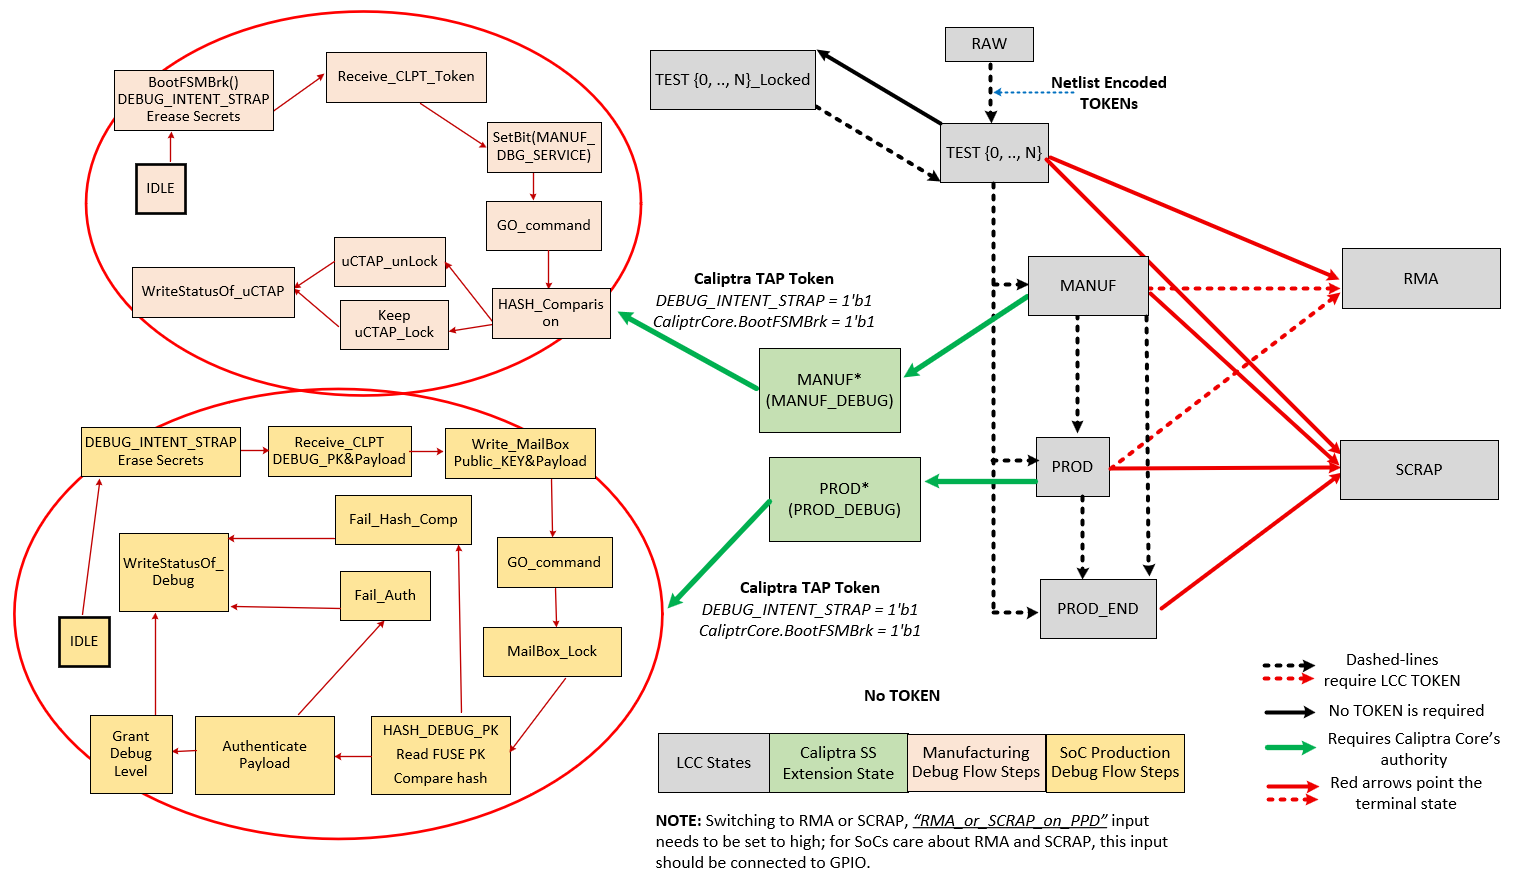
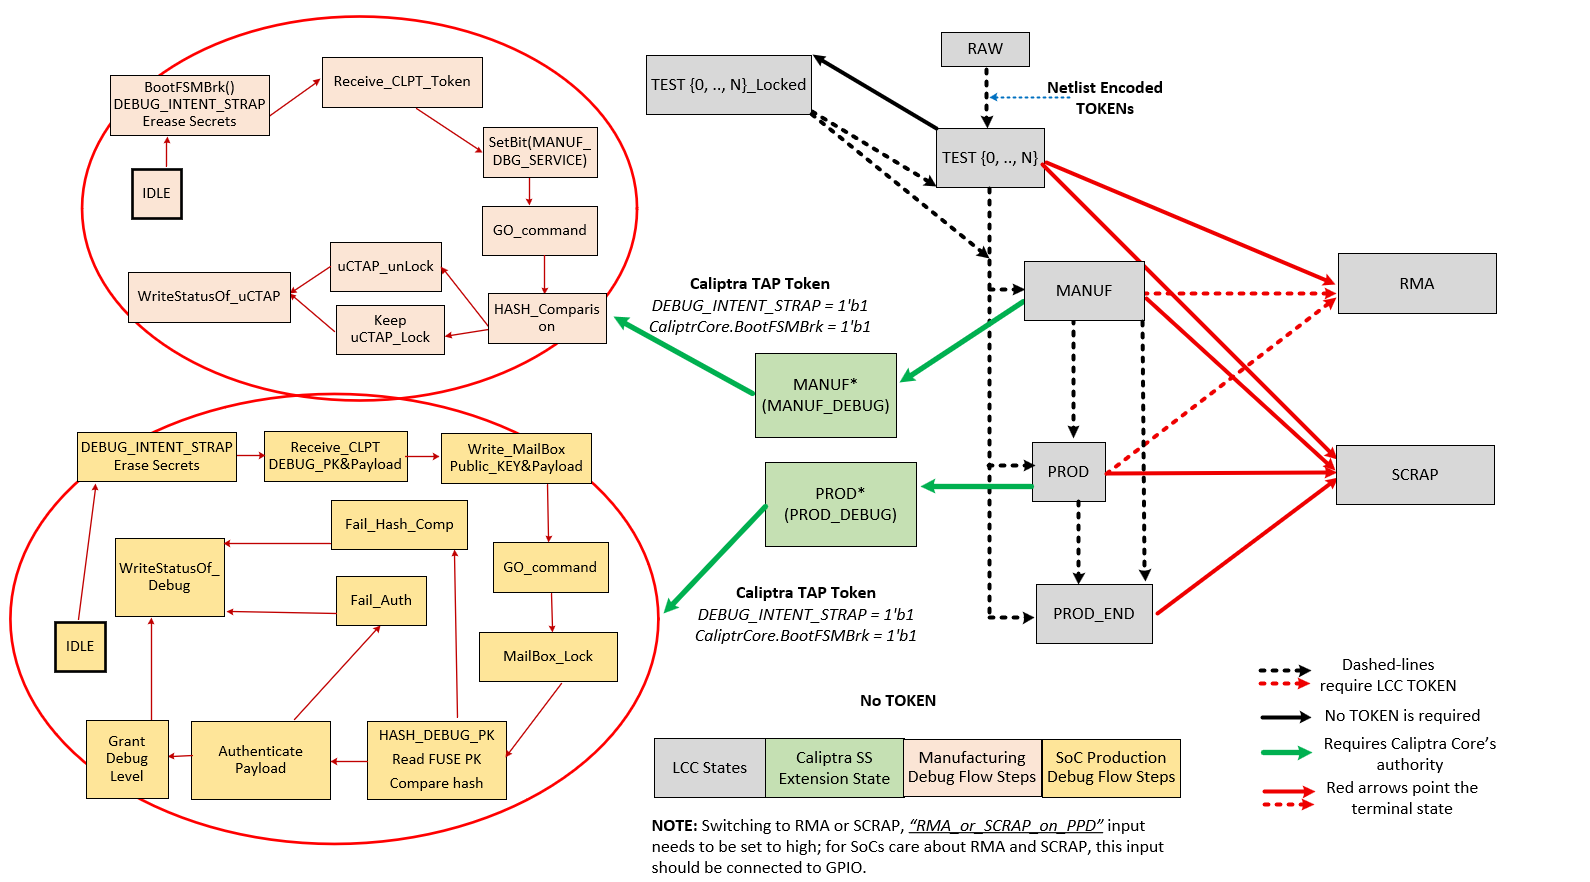
[Cherry-pick] document update for LCC and FC (#641)
* document update for LCC and FC

* update state trans diagram

This cherry-pick commit also includes clarification language from #1152

Changed region(s): [[0.0, 0.0, 0.9856, 1.0]]

diff --git a/docs/CaliptraSSIntegrationSpecification.md b/docs/CaliptraSSIntegrationSpecification.md
@@ -1333,7 +1333,7 @@ See [Life-cycle Controller Register Map](../src/lc_ctrl/rtl/lc_ctrl.rdl).
     Volatile-unlock state transitions are not reflected by the fuse controller, and therefore `caliptra_ss_life_cycle_steady_state_o` and `caliptra_ss_otp_state_valid_o` do not capture state transitions granted exclusively by the life-cycle controller. To cover this case, the Caliptra Subsystem also broadcasts `caliptra_ss_volatile_raw_unlock_success_o`, which is asserted by the life-cycle controller to indicate that the volatile-unlock state has been granted.
 
 3. **Scan Path Exclusions**:
-   - Ensure that the RAW\_UNLOCK token is excluded from the scan chain. This token is different from other LC transition tokens as it is stored in the plaintext in gates, not in hashed form.
+   - Ensure that the RAW\_UNLOCK token is excluded from the scan chain. This token differs from other LC transition tokens because it is stored in gates, although it is also stored in a hashed form similar to other tokens. It is recommended to exclude since it is not provisioned through fuse macro as other tokens.
      To exclude it from scan, the following hierarchies must be excluded: `*::lc_ctrl_fsm::hashed_tokens_{higher, lower}[RawUnlockTokenIdx]` and `*::lc_ctrl_fsm::hashed_token_mux`.
 
 4. **RAW Unlock Token**: